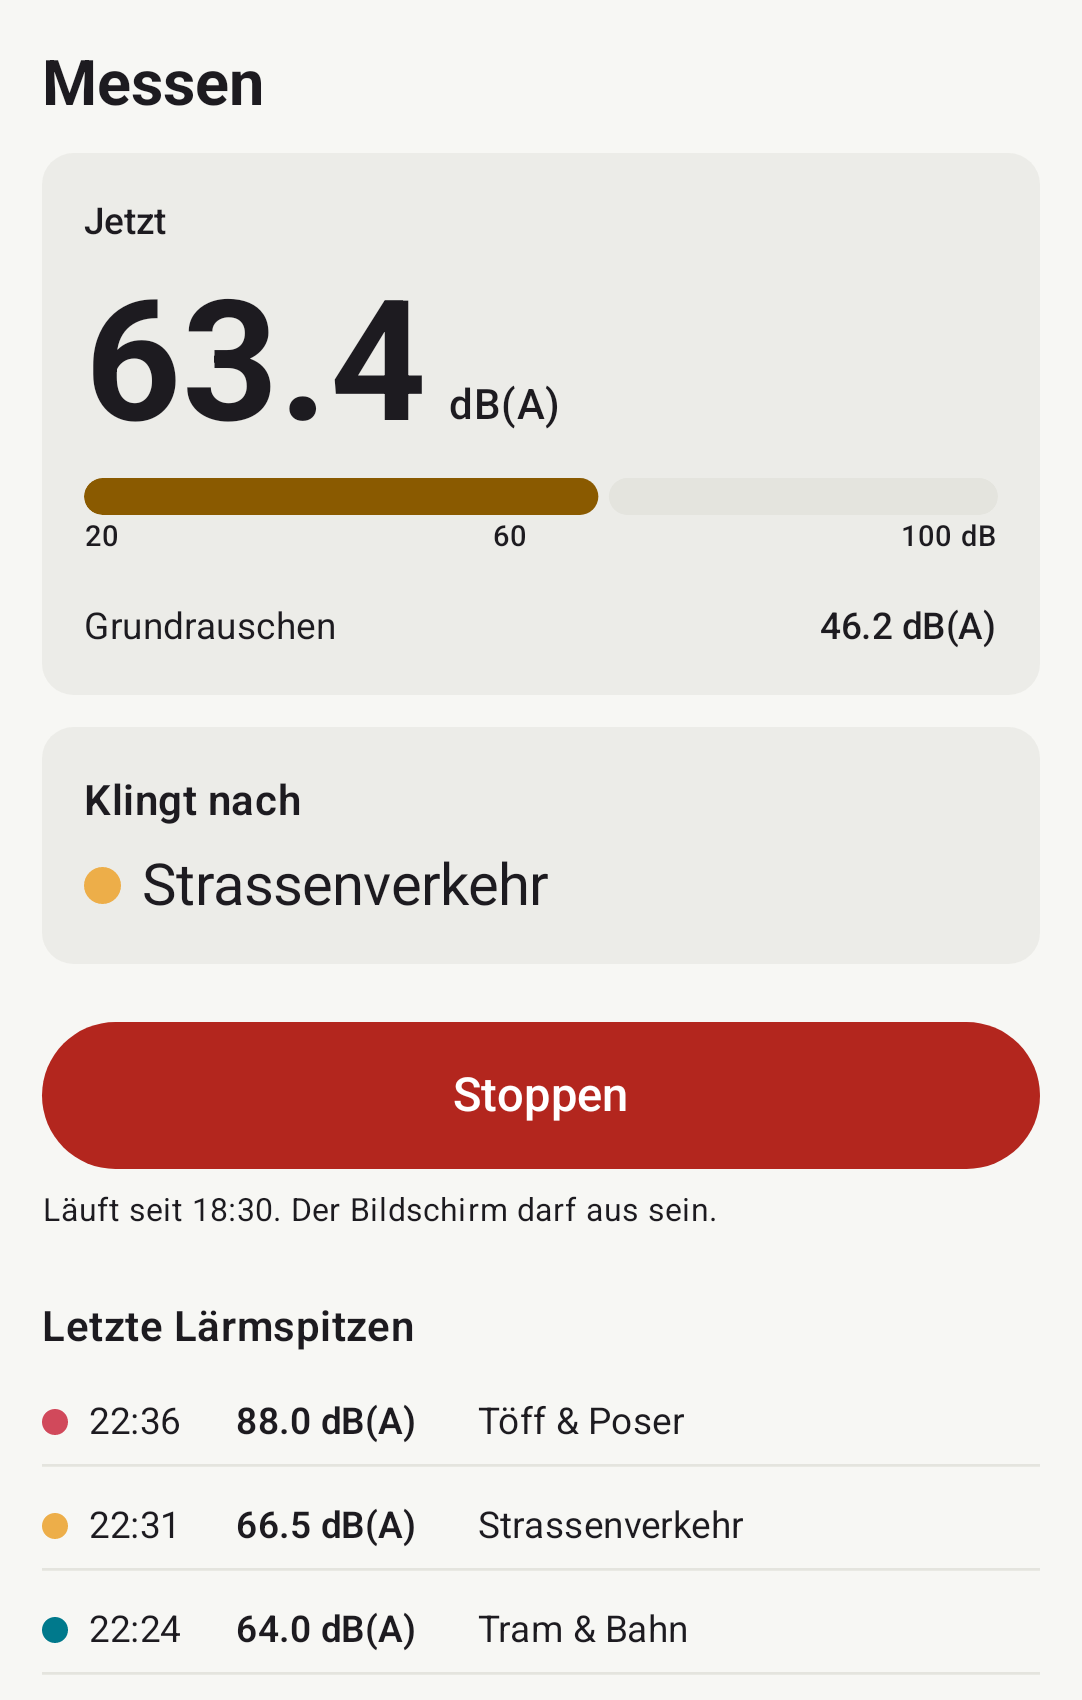
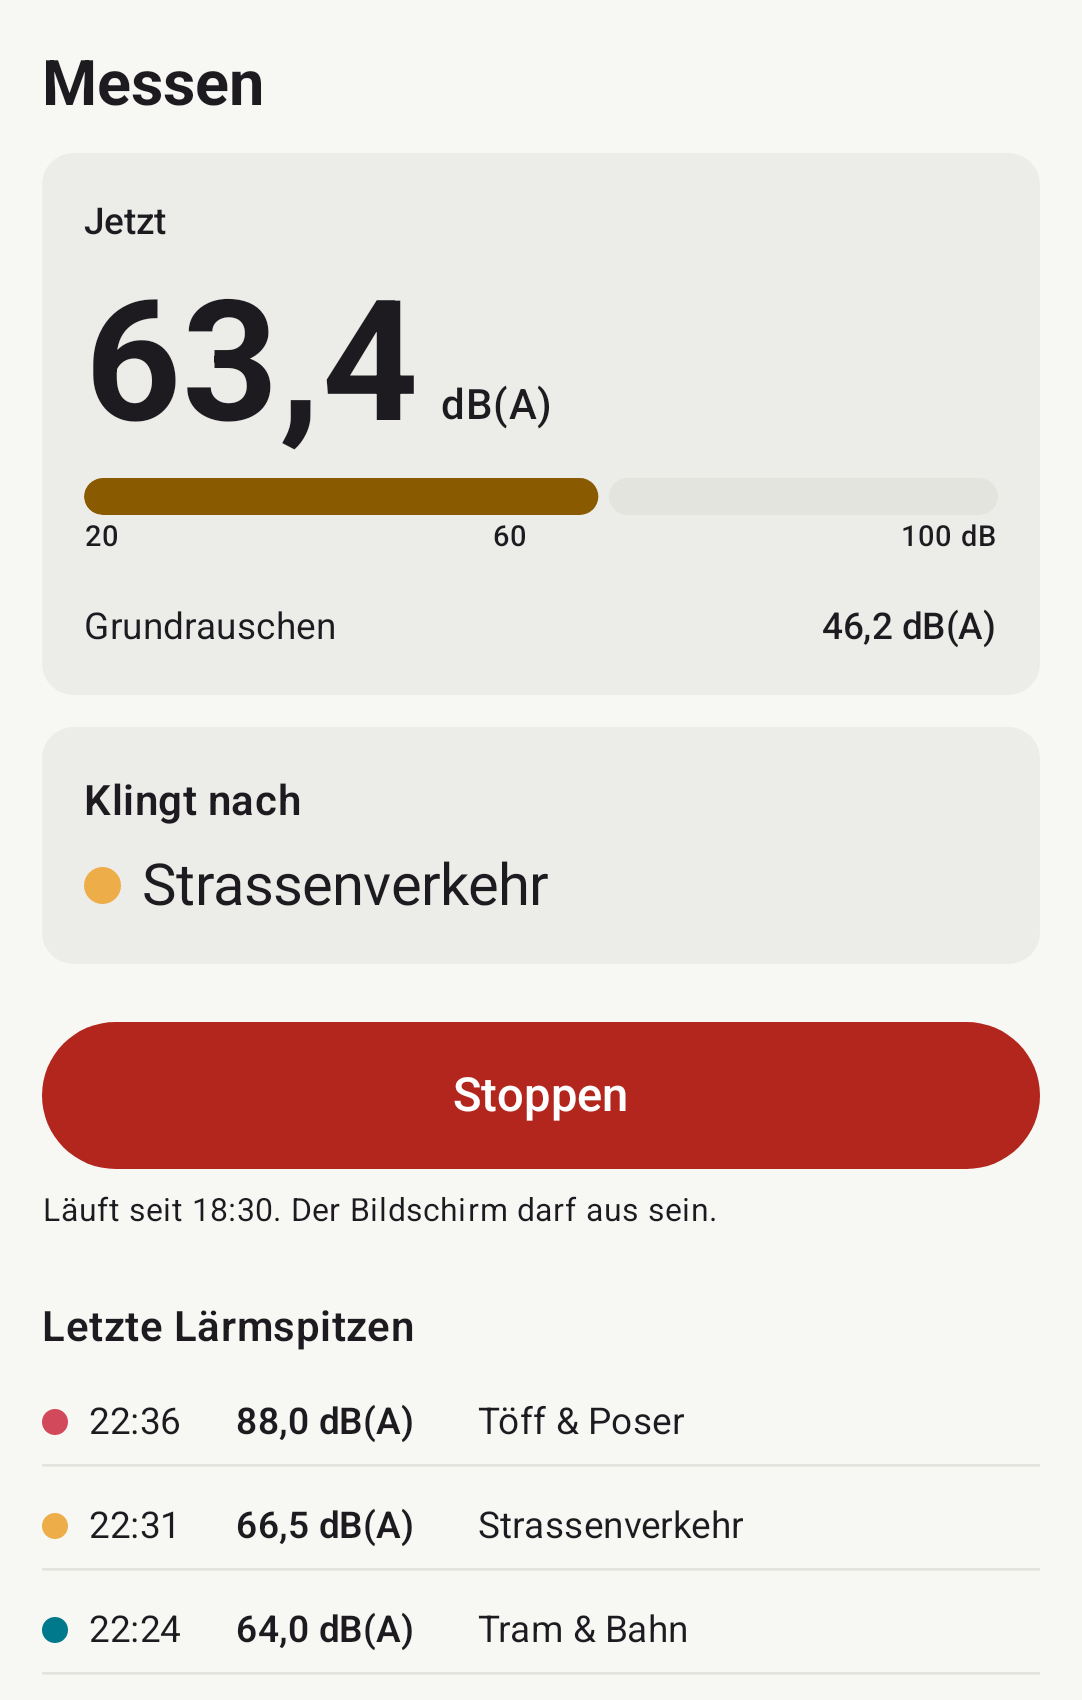
Decimal comma in all dB values; re-render website screenshots
Claude-Session: https://claude.ai/code/session_011awswkaVCrYtxCNeaSJ42k

diff --git a/android/chart/src/test/kotlin/ch/lessnoise/chart/ChartModelTest.kt b/android/chart/src/test/kotlin/ch/lessnoise/chart/ChartModelTest.kt
@@ -302,10 +302,10 @@ class ChartModelTest {
         assertEquals("Fr 9.10. 23:40:30 · Töff & Poser", lines[0])
         // Two lines: time and source, then peak and duration (0.6.1).
         assertEquals(2, lines.size, lines.toString())
-        assertTrue(lines[1].startsWith("85.0 dB(A) · "), lines.toString())
+        assertTrue(lines[1].startsWith("85,0 dB(A) · "), lines.toString())
         // The Labor build keeps the detector details.
         val detailed = tooltipLines(Selection.Event(e, true), m, detailed = true)
-        assertTrue("LAFmax 85.0 dB(A)" in detailed && "unkalibriert" in detailed, detailed.toString())
+        assertTrue("LAFmax 85,0 dB(A)" in detailed && "unkalibriert" in detailed, detailed.toString())
         val minute = tooltipLines(Selection.Point(m.points.first { it.valid }), m)
         assertEquals(2, minute.size, minute.toString())
         assertTrue(minute[1].startsWith("Mittel ") && minute[1].contains(" · Spitze "), minute.toString())
@@ -381,7 +381,7 @@ class ChartModelTest {
         val lines = tooltipLines(sel, m, detailed = true)
         assertTrue(lines[0].endsWith("· $WIND_LEGEND"), lines[0])
         assertTrue(tooltipLines(sel, m)[0].endsWith("· Wind"), tooltipLines(sel, m)[0])
-        assertTrue(lines.any { it.startsWith("Lokaler Hintergrund 38.0 dB(A) (+52.0 dB)") }, lines.toString())
+        assertTrue(lines.any { it.startsWith("Lokaler Hintergrund 38,0 dB(A) (+52,0 dB)") }, lines.toString())
         assertTrue(lines.any { it.startsWith("Tieftonanteil 98 %") }, lines.toString())
         assertEquals("Wind", ChartCategories.name(WindRule.CATEGORY))
         assertTrue(ChartCategories.all.none { it.first == WindRule.CATEGORY }) // not a highlight chip

diff --git a/android/app/src/labor/kotlin/ch/lessnoise/app/labor/ClipUi.kt b/android/app/src/labor/kotlin/ch/lessnoise/app/labor/ClipUi.kt
@@ -1,5 +1,6 @@
 package ch.lessnoise.app.labor
 
+import java.util.Locale
 import android.content.Context
 import android.widget.Toast
 import androidx.compose.foundation.Canvas
@@ -103,11 +104,11 @@ private fun mmss(ms: Long): String {
     return String.format(SwissLocale, "%d:%02d.%d", t / 60_000, (t / 1000) % 60, (t % 1000) / 100)
 }
 
-private fun db(v: Double?): String = if (v == null || v.isNaN()) "–" else String.format(SwissLocale, "%.1f", v)
+private fun db(v: Double?): String = if (v == null || v.isNaN()) "–" else String.format(Locale.GERMANY, "%.1f", v)
 private fun pct(v: Double): String = String.format(SwissLocale, "%.0f %%", v * 100)
 
 private fun eventDuration(e: ClipEntry?): String = e?.durationS?.let {
-    if (it < 60) String.format(SwissLocale, "%.1f s", it) else String.format(SwissLocale, "%d min %02d s", (it / 60).toInt(), (it % 60).toInt())
+    if (it < 60) String.format(Locale.GERMANY, "%.1f s", it) else String.format(SwissLocale, "%d min %02d s", (it / 60).toInt(), (it % 60).toInt())
 } ?: "–"
 
 /**
@@ -443,4 +444,4 @@ private fun ClipRow(context: Context, e: ClipEntry, onClick: () -> Unit) {
     }
 }
 
-private fun mb(bytes: Long): String = String.format(SwissLocale, "%.1f MB", bytes / 1e6)
+private fun mb(bytes: Long): String = String.format(Locale.GERMANY, "%.1f MB", bytes / 1e6)

diff --git a/android/app/src/main/kotlin/ch/lessnoise/app/ui/Common.kt b/android/app/src/main/kotlin/ch/lessnoise/app/ui/Common.kt
@@ -49,7 +49,8 @@ val SwissLocale: Locale = Locale("de", "CH")
 
 object Fmt {
     fun db(v: Double?, decimals: Int = 1): String =
-        if (v == null || v.isNaN() || v.isInfinite()) "–" else String.format(SwissLocale, "%.${decimals}f", v)
+        // Decimal comma everywhere (as on the website): «45,1 dB(A)». de-CH would give «45.1».
+        if (v == null || v.isNaN() || v.isInfinite()) "–" else String.format(Locale.GERMANY, "%.${decimals}f", v)
 
     private val time = DateTimeFormatter.ofPattern("HH:mm:ss", SwissLocale)
     private val hm = DateTimeFormatter.ofPattern("HH:mm", SwissLocale)
@@ -60,7 +61,7 @@ object Fmt {
     fun dateTime(ms: Long): String = Instant.ofEpochMilli(ms).atZone(ZoneId.systemDefault()).format(dateTime)
 
     fun duration(seconds: Double): String = when {
-        seconds < 60 -> String.format(SwissLocale, "%.1f s", seconds)
+        seconds < 60 -> String.format(Locale.GERMANY, "%.1f s", seconds)
         seconds < 3600 -> String.format(SwissLocale, "%d min %02d s", (seconds / 60).toInt(), (seconds % 60).toInt())
         else -> String.format(SwissLocale, "%d h %02d min", (seconds / 3600).toInt(), ((seconds % 3600) / 60).toInt())
     }

diff --git a/android/app/src/test/kotlin/ch/lessnoise/app/AppJvmTest.kt b/android/app/src/test/kotlin/ch/lessnoise/app/AppJvmTest.kt
@@ -493,8 +493,8 @@ class AppJvmTest {
     fun calibrationConfirmationText() {
         val d = Acoustics.DEFAULT_CALIBRATION_OFFSET_DB
         // 0.6.1: one short line; the event floor still follows (EventFloor), silently.
-        assertEquals("Kalibrierung gespeichert (+9.6 dB).", CalibrationTexts.saved(EventFloor.adjust(30.0, d, d + 9.6, 20.0, 70.0)))
-        assertEquals("Kalibrierung gespeichert (±0.0 dB).", CalibrationTexts.saved(EventFloor.adjust(30.0, 118.0, 118.0, 20.0, 70.0)))
+        assertEquals("Kalibrierung gespeichert (+9,6 dB).", CalibrationTexts.saved(EventFloor.adjust(30.0, d, d + 9.6, 20.0, 70.0)))
+        assertEquals("Kalibrierung gespeichert (±0,0 dB).", CalibrationTexts.saved(EventFloor.adjust(30.0, 118.0, 118.0, 20.0, 70.0)))
         assertEquals(39.5, EventFloor.adjust(30.0, d, d + 9.6, 20.0, 70.0).newFloorDb)
         assertEquals("Zurückgesetzt. Die Werte sind wieder Richtwerte.", CalibrationTexts.RESET)
         assertEquals("1 Minute wird mit der neuen Kalibrierung umgerechnet. Die Originalwerte bleiben.", CalibrationTexts.recalScope(1))

diff --git a/android/app/src/labor/kotlin/ch/lessnoise/app/edition/Edition.kt b/android/app/src/labor/kotlin/ch/lessnoise/app/edition/Edition.kt
@@ -1,5 +1,6 @@
 package ch.lessnoise.app.edition
 
+import java.util.Locale
 import android.content.ActivityNotFoundException
 import android.content.Context
 import android.content.Intent
@@ -449,11 +450,11 @@ private fun LaborSwitch(label: String, checked: Boolean, enabled: Boolean = true
 }
 
 private fun gbLabel(gb: Double): String =
-    if (gb < 1) String.format(SwissLocale, "%.1f GB", gb) else String.format(SwissLocale, "%.0f GB", gb)
+    if (gb < 1) String.format(Locale.GERMANY, "%.1f GB", gb) else String.format(SwissLocale, "%.0f GB", gb)
 
 private fun mb(bytes: Long): String = when {
-    bytes >= 1_000_000_000L -> String.format(SwissLocale, "%.2f GB", bytes / 1e9)
-    else -> String.format(SwissLocale, "%.1f MB", bytes / 1e6)
+    bytes >= 1_000_000_000L -> String.format(Locale.GERMANY, "%.2f GB", bytes / 1e9)
+    else -> String.format(Locale.GERMANY, "%.1f MB", bytes / 1e6)
 }
 
 /** Tries to open the folder in DocumentsUI (blocked for Android/data on many Android 11+ devices). */

diff --git a/android/chart/src/main/kotlin/ch/lessnoise/chart/ChartModel.kt b/android/chart/src/main/kotlin/ch/lessnoise/chart/ChartModel.kt
@@ -499,12 +499,12 @@ class TimeFmt(val zone: ZoneId, private val withWeekday: Boolean, private val wi
     }
 }
 
-/** Number formatting as in the rest of the app (de-CH). */
+/** Number formatting as in the rest of the app: decimal comma («45,1»). */
 object ChartFmt {
-    private val locale = Locale("de", "CH")
+    private val locale = Locale.GERMANY
     fun db(v: Double, decimals: Int = 1): String =
         if (v.isNaN() || v.isInfinite()) "–" else String.format(locale, "%.${decimals}f", v)
-    /** «60», «62.5»: whole values without decimals (the event floor moves in 0.5 dB steps). */
+    /** «60», «62,5»: whole values without decimals (the event floor moves in 0.5 dB steps). */
     fun dbCompact(v: Double): String = db(v, if (v % 1.0 == 0.0) 0 else 1)
     fun percent(v: Double): String = String.format(locale, "%.0f %%", v * 100)
     /** German decimal comma («5,5»), for the dynamics figures. */

diff --git a/android/dsp/src/main/kotlin/ch/lessnoise/dsp/calibration/Recalibration.kt b/android/dsp/src/main/kotlin/ch/lessnoise/dsp/calibration/Recalibration.kt
@@ -108,11 +108,11 @@ object EventFloor {
         return Adjustment(previousOffsetDb, newOffsetDb, floorDb, unclamped, unclamped.coerceIn(minDb, maxDb))
     }
 
-    /** "+9.6", "−3.2" (minus sign), "±0.0". */
+    /** "+9,6", "−3,2" (minus sign), "±0,0" — decimal comma, as everywhere in the app. */
     fun signed(deltaDb: Double, decimals: Int = 1): String {
-        val text = String.format(java.util.Locale.ROOT, "%.${decimals}f", abs(deltaDb))
+        val text = String.format(java.util.Locale.GERMANY, "%.${decimals}f", abs(deltaDb))
         return when {
-            text.trimStart('0', '.').isEmpty() -> "±$text"
+            text.trimStart('0', ',').isEmpty() -> "±$text"
             deltaDb > 0 -> "+$text"
             else -> "−$text"
         }

diff --git a/android/dsp/src/test/kotlin/ch/lessnoise/dsp/RecalibrationTest.kt b/android/dsp/src/test/kotlin/ch/lessnoise/dsp/RecalibrationTest.kt
@@ -193,9 +193,9 @@ class RecalibrationTest {
 
     @Test
     fun signedDelta() {
-        assertEquals("+9.6", EventFloor.signed(9.6))
-        assertEquals("−3.2", EventFloor.signed(-3.2))
-        assertEquals("±0.0", EventFloor.signed(0.0))
-        assertEquals("±0.0", EventFloor.signed(-0.04))
+        assertEquals("+9,6", EventFloor.signed(9.6))
+        assertEquals("−3,2", EventFloor.signed(-3.2))
+        assertEquals("±0,0", EventFloor.signed(0.0))
+        assertEquals("±0,0", EventFloor.signed(-0.04))
     }
 }

diff --git a/WORKLOG.md b/WORKLOG.md
@@ -399,3 +399,4 @@ Two branches each kept a worklog; this file is their union (release-0.5.0 merge)
 - 12:40 — aapt2 (build-tools 35) on the four debug APKs: offline and labor RECORD_AUDIO, FOREGROUND_SERVICE(_MICROPHONE), POST_NOTIFICATIONS, WAKE_LOCK only; public and laborKarte the same plus INTERNET, ACCESS_NETWORK_STATE, ACCESS_FINE_LOCATION, ACCESS_COARSE_LOCATION. Offline/public identical to the published 0.6.0 APKs in docs/download (diff empty); no manifest changed. versionCode 14, versionName 0.6.1 (-labor, -labor-karte).
 - 12:40 — PRIVACY.md dex check on the offline and public debug APKs: apkanalyzer `ch.lessnoise.app.labor` 0; dexdump 15324 / 15327 classes, none matching labor|recorder|wav|aac|muxer|clipassembler; no MediaMuxer/MediaCodec/RIFF/WAVE/manifest.jsonl/labor strings. Control: Labor debug APK 1792 / 157 / 257. Source grep (FileOutputStream|MediaMuxer|MediaCodec|RIFF in main, public, dsp): nothing. Release APKs not built (no keystore here).
 - 12:40 — Website changes needed (not mine to make, listed for the main session): see the report.
+- 12:46 — Decimal comma everywhere (Fmt.db, ChartFmt, Labor formatters, EventFloor.signed via Locale.GERMANY) — the screenshot showed «45.1» in the tiles next to «53,6» in the summary; de-CH formats with a point, the website uses a comma. Percent keeps SwissLocale (no decimals). Tests: Labor 128/0, LaborKarte 128/0, Offline 88/0, Public 87/0, chart 46/0, dsp 107/0; screenshots re-rendered.
